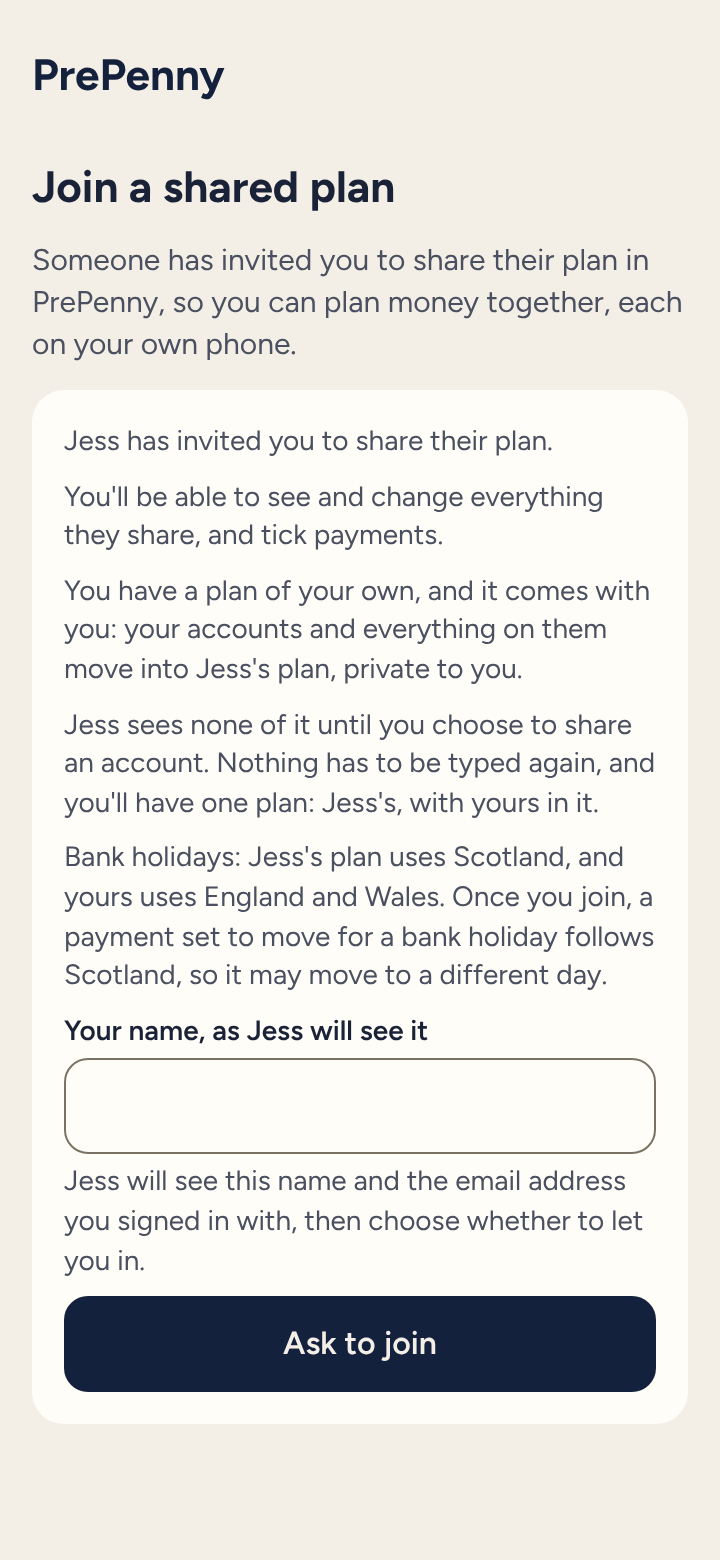
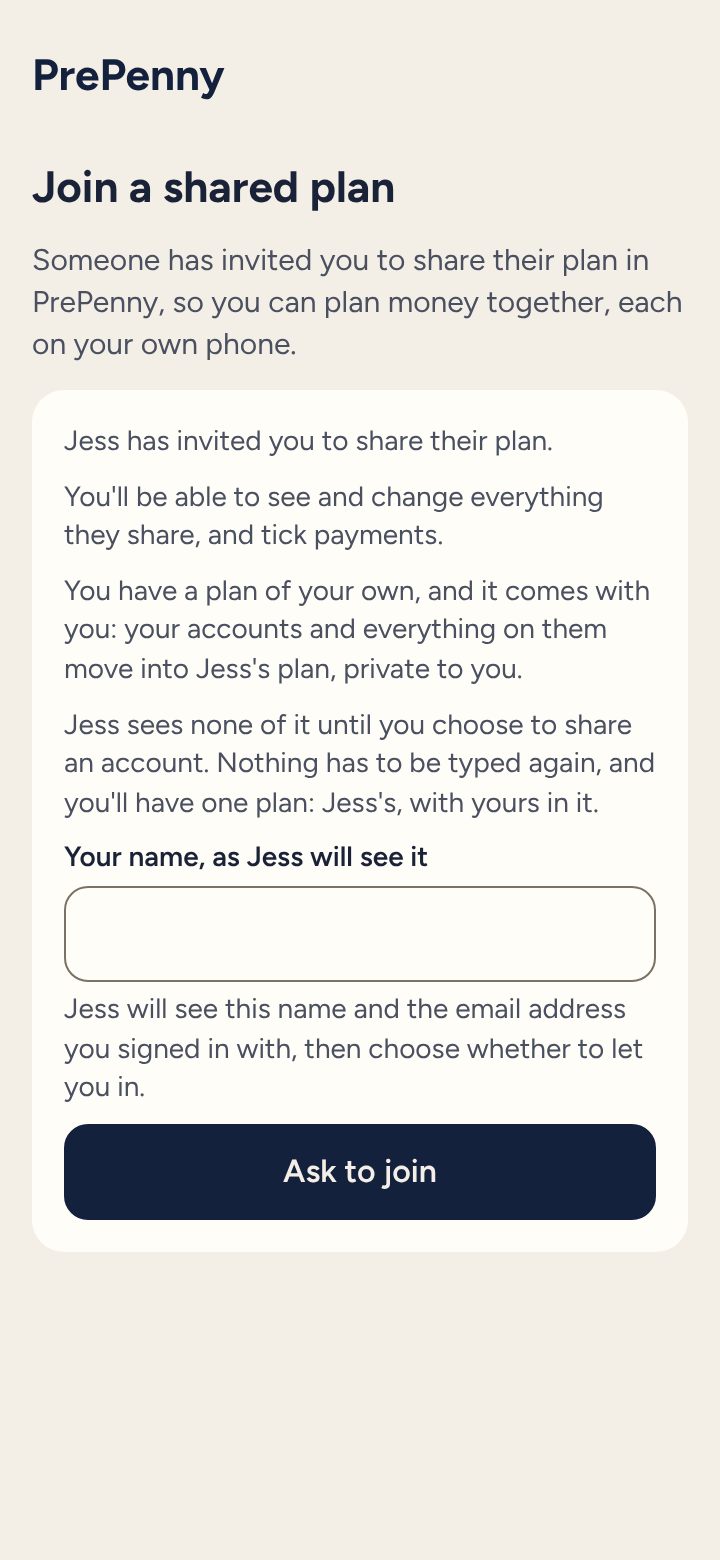
Join page: no bank holidays before Allow, then with Bring my plan and join (D439)
The phone keeps "a plan comes along" apart from the bank holidays, which
it reads only for an allowed invite. Sharing test 4 checks the page and
the server's answer say nothing about them before asking or while
waiting, and the line with Bring my plan and join once allowed.

Claude-Session: https://claude.ai/code/session_01R7WB9rSwP1rwG6kdvJABxQ

Changed region(s): [[0.0917, 0.5231, 0.9167, 0.8923]]

diff --git a/apps/web/components/JoinScreen.tsx b/apps/web/components/JoinScreen.tsx
@@ -14,10 +14,13 @@
 // down to this phone (PLAN.md item 33).
 //
 // Someone with a plan of their own brings it with them (step 3f-2, D426):
-// before asking they're told it comes, private to them, and what the other
-// plan's bank holidays change. Once allowed, this phone sends everything it
-// has to the account, then asks the server to move the plan in one step,
-// and the shared plan, with theirs in it, comes down. Opened as
+// before asking they're told it comes, private to them. Nothing about the
+// other plan itself shows until they're let in, not even its bank holidays
+// (D439). Once allowed, with the same bank holidays, this phone sends
+// everything it has to the account, then asks the server to move the plan
+// in one step, and the shared plan, with theirs in it, comes down. With
+// different ones, they're told first what that changes, and choose "Bring
+// my plan and join". Opened as
 // "/join/#invite=…" from "Finish joining", it finishes an invite already
 // allowed, with no link to hand.
 
@@ -155,7 +158,7 @@ export function JoinScreen() {
 
   // A plan on this phone the account hasn't been given yet: it's saved there
   // first, once, so the server knows it comes with them (D426).
-  const needsSaving = state === 'open' && found?.brings === null && ownPlan;
+  const needsSaving = state === 'open' && found?.brings === false && ownPlan;
   useEffect(() => {
     if (!needsSaving || savedFor.current === saveTry) return;
     savedFor.current = saveTry;
@@ -262,15 +265,16 @@ export function JoinScreen() {
   );
 
   // Allowed, with a plan whose bank holidays don't change: it comes straight
-  // away, as they agreed when they asked. With different ones, they're told
-  // again and choose "Bring my plan and join" (D426).
+  // away, as they agreed when they asked. With different ones, only now
+  // shown, they're told what that changes and choose "Bring my plan and
+  // join" (D426, D439).
   const invite = found?.invite ?? null;
-  const brings = found?.brings ?? null;
-  const sameHolidays = brings === null || brings.nation === brings.ownNation;
+  const holidays = found?.holidays ?? null;
+  const sameHolidays = holidays === null || holidays.nation === holidays.ownNation;
   useEffect(() => {
     if (state !== 'allowed' || invite === null || !sameHolidays || bringing.kind !== 'idle') return;
-    void bring(invite, brings?.nation ?? 'england-and-wales');
-  }, [state, invite, sameHolidays, brings, bringing.kind, bring]);
+    void bring(invite, holidays?.nation ?? 'england-and-wales');
+  }, [state, invite, sameHolidays, holidays, bringing.kind, bring]);
 
   async function ask(event: FormEvent) {
     event.preventDefault();
@@ -322,11 +326,11 @@ export function JoinScreen() {
   const inviter =
     found !== null && found.inviter !== null && found.inviter !== '' ? found.inviter : t.someone;
 
-  /** "Bank holidays: Tom's plan uses Scotland, and yours uses England and Wales…", when they differ. */
+  /** "Bank holidays: Tom's plan uses Scotland, and yours uses England and Wales…", once let in, when they differ. */
   const holidaysLine =
-    brings === null || sameHolidays ? null : (
+    holidays === null || sameHolidays ? null : (
       <p className={styles.line} data-testid="join-holidays">
-        {t.nationDiffers(inviter, nations[brings.nation], nations[brings.ownNation])}
+        {t.nationDiffers(inviter, nations[holidays.nation], nations[holidays.ownNation])}
       </p>
     );
 
@@ -399,16 +403,15 @@ export function JoinScreen() {
               {t.invitedBy(inviter)}
             </p>
             <p className={styles.line}>{found.role === 'viewer' ? t.canView : t.canEdit}</p>
-            {brings === null ? (
-              <p className={styles.line}>{t.privateLine}</p>
-            ) : (
+            {found.brings ? (
               <>
                 <p className={styles.line} data-testid="join-brings">
                   {t.bringsLine(inviter)}
                 </p>
                 <p className={styles.line}>{t.bringsPrivate(inviter)}</p>
-                {holidaysLine}
               </>
+            ) : (
+              <p className={styles.line}>{t.privateLine}</p>
             )}
             <Field
               id={`${id}-name`}
@@ -464,7 +467,8 @@ export function JoinScreen() {
                   type="button"
                   className={formStyles.main}
                   onClick={() => {
-                    if (invite !== null) void bring(invite, brings?.nation ?? 'england-and-wales');
+                    if (invite !== null)
+                      void bring(invite, holidays?.nation ?? 'england-and-wales');
                   }}
                 >
                   {bringing.kind === 'idle' ? t.bringAndJoin : t.tryAgain}

diff --git a/apps/web/e2e/sharing.spec.ts b/apps/web/e2e/sharing.spec.ts
@@ -14,8 +14,10 @@
 //    already in a shared plan is told they can't join another (D427).
 // 4. Step 3f-2 (D426): Sam, with a plan of his own on other bank holidays,
 //    joins Jess's and keeps every account, private to him: told before he
-//    asks, brought in once she allows it, from the join page or from "Finish
-//    joining" on Home, and Jess sees none of it.
+//    asks that his plan comes, but nothing about hers, not even its bank
+//    holidays, until she allows it (D439); then told what they change, and
+//    brought in from the join page or from "Finish joining" on Home, and
+//    Jess sees none of it.
 
 import { type Browser, expect, type Page, type TestInfo, test } from '@playwright/test';
 import { strings } from '../strings/en-GB.ts';
@@ -492,14 +494,28 @@ for (const colorScheme of ['light', 'dark'] as const) {
         `select plan_id from public.plan_members where person_id = ${quoted(samId)}`,
       );
 
-      // Before he asks, he's told what comes with him, and what the bank holidays change.
+      // Before he asks, he's told what comes with him, and nothing about
+      // Jess's plan itself, not even its bank holidays (D439): neither on the
+      // page nor in what the server sends his phone.
+      const looked = sam.page.waitForResponse((response) =>
+        response.url().includes('/rest/v1/rpc/look_at_invite'),
+      );
       await sam.page.goto(link);
       await expect(sam.page.getByTestId('join-message')).toHaveText(j.invitedBy('Jess'));
       await expect(sam.page.getByTestId('join-brings')).toHaveText(j.bringsLine('Jess'));
       await expect(sam.page.getByText(j.bringsPrivate('Jess'))).toBeVisible();
-      await expect(sam.page.getByTestId('join-holidays')).toHaveText(
-        j.nationDiffers('Jess', 'Scotland', 'England and Wales'),
-      );
+      await expect(sam.page.getByTestId('join-holidays')).toHaveCount(0);
+      await expect(sam.page.getByText(/Scotland|England and Wales/)).toHaveCount(0);
+      const firstLook = (await (await looked).json()) as Record<string, unknown>;
+      expect(Object.keys(firstLook).sort()).toEqual([
+        'brings',
+        'expires_at',
+        'inviter',
+        'now',
+        'role',
+        'state',
+      ]);
+      expect(firstLook).toMatchObject({ state: 'open', inviter: 'Jess', brings: true });
       await noAxeProblems(sam.page);
       await noSidewaysScroll(sam.page);
       if (shoots(info, colorScheme)) {
@@ -514,6 +530,9 @@ for (const colorScheme of ['light', 'dark'] as const) {
       await box(sam.page, j.nameLabel('Jess')).fill('Sam');
       await sam.page.getByRole('button', { name: j.ask }).click();
       await expect(sam.page.getByTestId('join-message')).toHaveText(j.waiting('Jess'));
+      // Still nothing about her plan while he waits.
+      await expect(sam.page.getByTestId('join-holidays')).toHaveCount(0);
+      await expect(sam.page.getByText(/Scotland|England and Wales/)).toHaveCount(0);
       // In light, he goes back to his plan meanwhile, and finishes from Home;
       // in dark, he keeps the join page open.
       const fromHome = colorScheme === 'light';
@@ -548,8 +567,13 @@ for (const colorScheme of ['light', 'dark'] as const) {
         await card.getByRole('link', { name: strings.joining.finish }).click();
         await expect(sam.page).toHaveURL(/\/join\/$/);
       }
-      // The bank holidays differ, so he's told again, and chooses.
-      await expect(sam.page.getByTestId('join-holidays')).toBeVisible({ timeout: 20_000 });
+      // Only now he's let in is he told her plan's bank holidays. They
+      // differ from his, so he's told what that changes, and chooses.
+      await expect(sam.page.getByTestId('join-holidays')).toHaveText(
+        j.nationDiffers('Jess', 'Scotland', 'England and Wales'),
+        { timeout: 20_000 },
+      );
+      await expect(sam.page.getByText(j.letYouIn('Jess'), { exact: true })).toBeVisible();
       const bring = sam.page.getByRole('button', { name: j.bringAndJoin });
       await expect(bring).toBeVisible();
       await noAxeProblems(sam.page);

diff --git a/apps/web/lib/sharing.ts b/apps/web/lib/sharing.ts
@@ -242,16 +242,20 @@ export interface InviteLook {
   readonly expiresAt: string | null;
   /** The invite's own id, given only to the person who asked with it. */
   readonly invite: string | null;
+  /** The person has a plan of their own, alone in it, which comes with them (D426). */
+  readonly brings: boolean;
   /**
-   * The person has a plan of their own, alone in it, which comes with them
-   * (D426), with the bank holidays of both plans: the inviter's, and theirs.
+   * Only once the inviter has let them in, with a plan that comes: the bank
+   * holidays of both plans, the inviter's and theirs. Before that, nothing
+   * about the inviter's plan itself (D439).
    */
-  readonly brings: { readonly nation: Nation; readonly ownNation: Nation } | null;
+  readonly holidays: { readonly nation: Nation; readonly ownNation: Nation } | null;
 }
 
 const NATION_NAMES: readonly unknown[] = ['england-and-wales', 'scotland', 'northern-ireland'];
 
-function lookOf(value: {
+/** What the server says about an invite, as the join page reads it. */
+export function lookOf(value: {
   state?: unknown;
   role?: unknown;
   inviter?: unknown;
@@ -270,7 +274,9 @@ function lookOf(value: {
     inviter: typeof value.inviter === 'string' ? value.inviter : null,
     expiresAt: typeof value.expires_at === 'string' ? value.expires_at : null,
     invite: typeof value.invite === 'string' ? value.invite : null,
-    brings:
+    brings: value.brings === true,
+    holidays:
+      state === 'allowed' &&
       value.brings === true &&
       NATION_NAMES.includes(value.nation) &&
       NATION_NAMES.includes(value.own_nation)

diff --git a/apps/web/test/unit/sharing.test.ts b/apps/web/test/unit/sharing.test.ts
@@ -13,6 +13,7 @@ import {
   inviteIdFrom,
   inviteLink,
   joiningOf,
+  lookOf,
   problemOf,
   requestsOf,
   tokenFrom,
@@ -233,5 +234,34 @@ describe('finishing joining (D426)', () => {
     expect(
       derivedId('00000000-0000-0000-0000-000000000001', 'ticks', 'series-1', '2026-11-01', ''),
     ).toBe('cf3d9097-5a3a-8576-a553-461f2d754e45');
+  });
+});
+
+describe("an invite's bank holidays, only once let in (D439)", () => {
+  const regions = { brings: true, nation: 'scotland', own_nation: 'england-and-wales' };
+
+  it('knows a plan comes along before Allow, and never the bank holidays, even if sent', () => {
+    for (const state of ['open', 'waiting'] as const) {
+      const look = lookOf({ state, role: 'editor', inviter: 'Jess', ...regions });
+      expect(look.brings).toBe(true);
+      expect(look.holidays).toBeNull();
+    }
+  });
+
+  it("gives both plans' bank holidays once allowed", () => {
+    const look = lookOf({
+      state: 'allowed',
+      role: 'editor',
+      inviter: 'Jess',
+      invite: 'x',
+      ...regions,
+    });
+    expect(look.holidays).toEqual({ nation: 'scotland', ownNation: 'england-and-wales' });
+  });
+
+  it('has nothing to bring, and no bank holidays, for someone with no plan of their own', () => {
+    const look = lookOf({ state: 'allowed', role: 'editor', inviter: 'Jess', invite: 'x' });
+    expect(look.brings).toBe(false);
+    expect(look.holidays).toBeNull();
   });
 });
